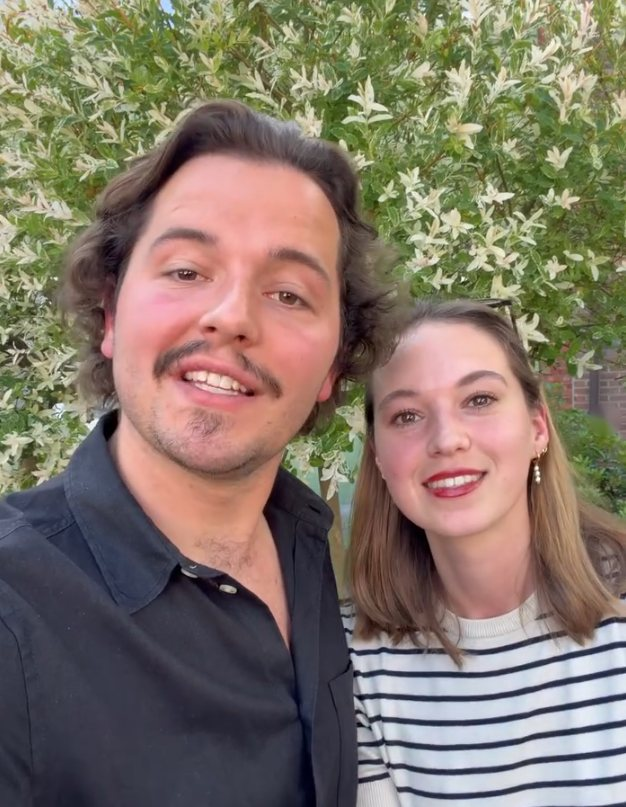
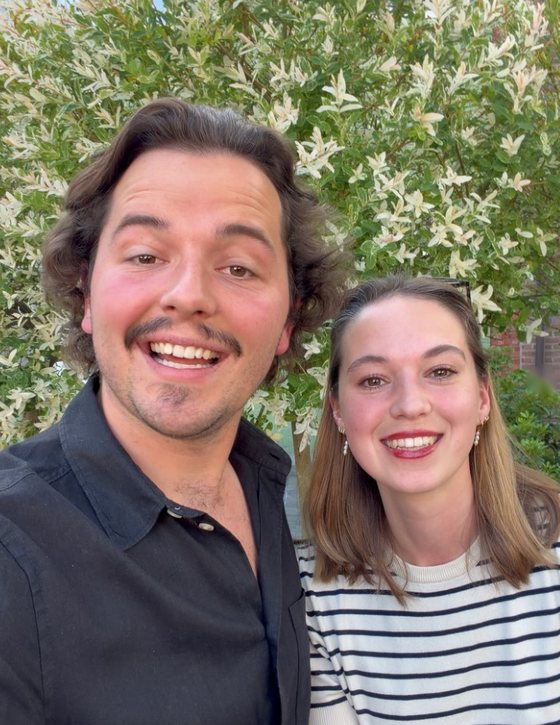
v4: new Robin & Ilona photo (smaller, Instagram arrow removed), title higher so text and photo fit above the fold, swirls spin twice as fast
Claude-Session: https://claude.ai/code/session_01HwUrNbGi4zSygEXY6pGA3F

diff --git a/v4/index.html b/v4/index.html
@@ -70,8 +70,8 @@ h2,.txt h1{font-size:clamp(26px,3.6vw,42px)}
 /* ---- verhaal ---- */
 .duo,.trio{position:relative;max-width:calc(1120px + 2*var(--pad));margin:0 auto;padding:0 var(--pad)}
 .trio{display:grid;grid-template-columns:repeat(3,minmax(0,1fr));gap:22px;align-items:start}
-.duo{max-width:calc(340px + 2*var(--pad))}
-.duo .pic{aspect-ratio:4/5}
+.duo{max-width:calc(260px + 2*var(--pad))}
+.duo .pic{aspect-ratio:672/870;width:clamp(190px,calc((100svh - 600px)*.772),260px);margin:0 auto}
 .trio .pic{aspect-ratio:4/5}
 .trio .pic:nth-of-type(2){margin-top:64px}
 .by{font-weight:700;margin-top:1.4em!important}
@@ -81,7 +81,7 @@ h2,.txt h1{font-size:clamp(26px,3.6vw,42px)}
 .band .kick{display:block;margin-bottom:14px}
 .band h2{margin-bottom:24px}
 .band p+p{margin-top:1.1em}
-.spin{animation:spin 28s linear infinite}
+.spin{animation:spin 14s linear infinite}
 @keyframes spin{to{transform:rotate(360deg)}}
 
 /* ---- menu ---- */
@@ -289,7 +289,8 @@ table.t small{font-size:13px}
  .nav{display:none}
  .brand{grid-column:2}
  .top .burger{display:grid;grid-column:3;justify-self:end}
- .duo{max-width:calc(280px + 2*var(--pad))}
+ .duo{max-width:calc(220px + 2*var(--pad))}
+ .duo .pic{width:min(220px,100%)}
  .trio{grid-template-columns:repeat(2,minmax(0,1fr));gap:14px}
  .trio .pic:first-of-type{grid-column:1/-1}
  .trio .pic:nth-of-type(2){margin-top:0}
@@ -337,7 +338,7 @@ table.t small{font-size:13px}
 
 <!-- ================= VERHAAL ================= -->
 <section class="page on" data-page="home">
- <div class="gap m"></div>
+ <div class="gap" style="height:clamp(20px,3.2vw,44px)"></div>
  <div class="txt rv">
   <h1>Welkom bij KOPVOL.</h1>
   <div class="gap xs" style="height:28px"></div>
@@ -347,7 +348,7 @@ table.t small{font-size:13px}
   <p class="by">Robin &amp; Ilona</p>
  </div>
  <div class="gap s"></div>
- <div class="duo"><figure class="pic rv"><img src="img/robinilona.jpg" alt="Robin en Ilona, de eigenaars van KOPVOL, lachend voor een struik" width="626" height="807" loading="lazy" style="object-position:50% 30%"></figure></div>
+ <div class="duo"><figure class="pic rv"><img src="img/robinilona.jpg" alt="Robin en Ilona, de eigenaars van KOPVOL, lachend voor een struik" width="560" height="725" loading="lazy" style="object-position:50% 30%"></figure></div>
  <div class="gap"></div>
  <div class="band"><div class="in rv">
   <svg class="sw big spin"><use href="#sw"/></svg>
